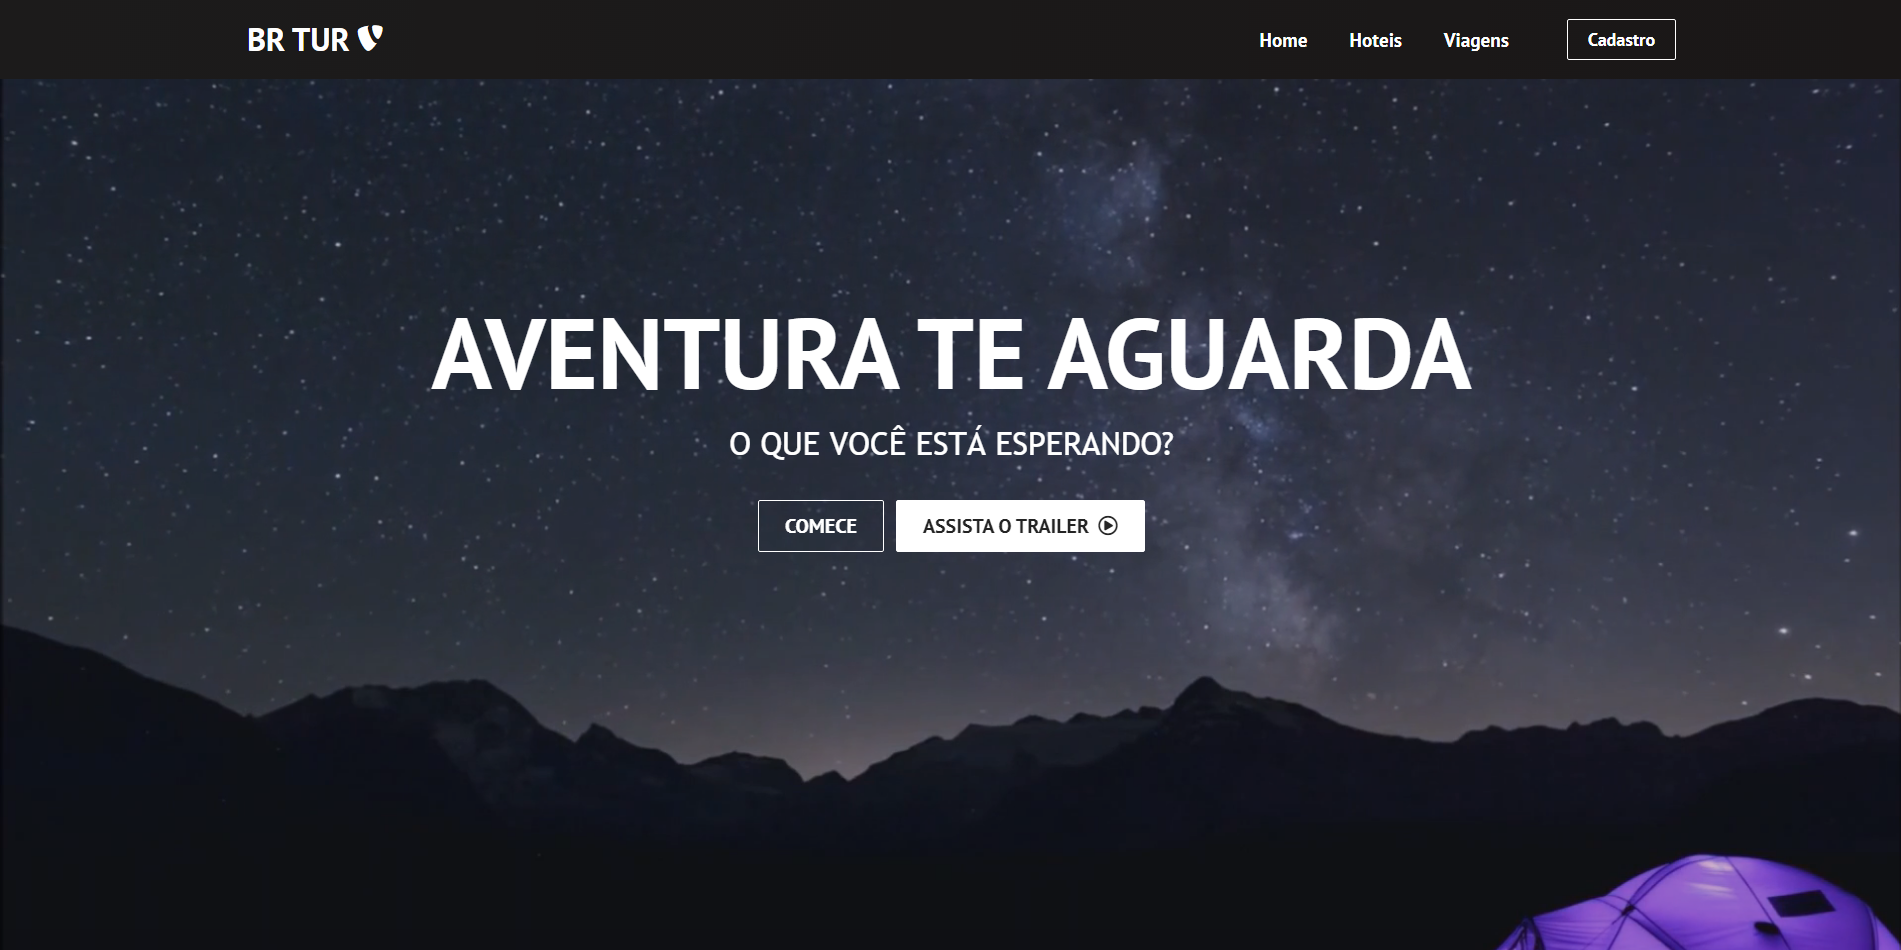
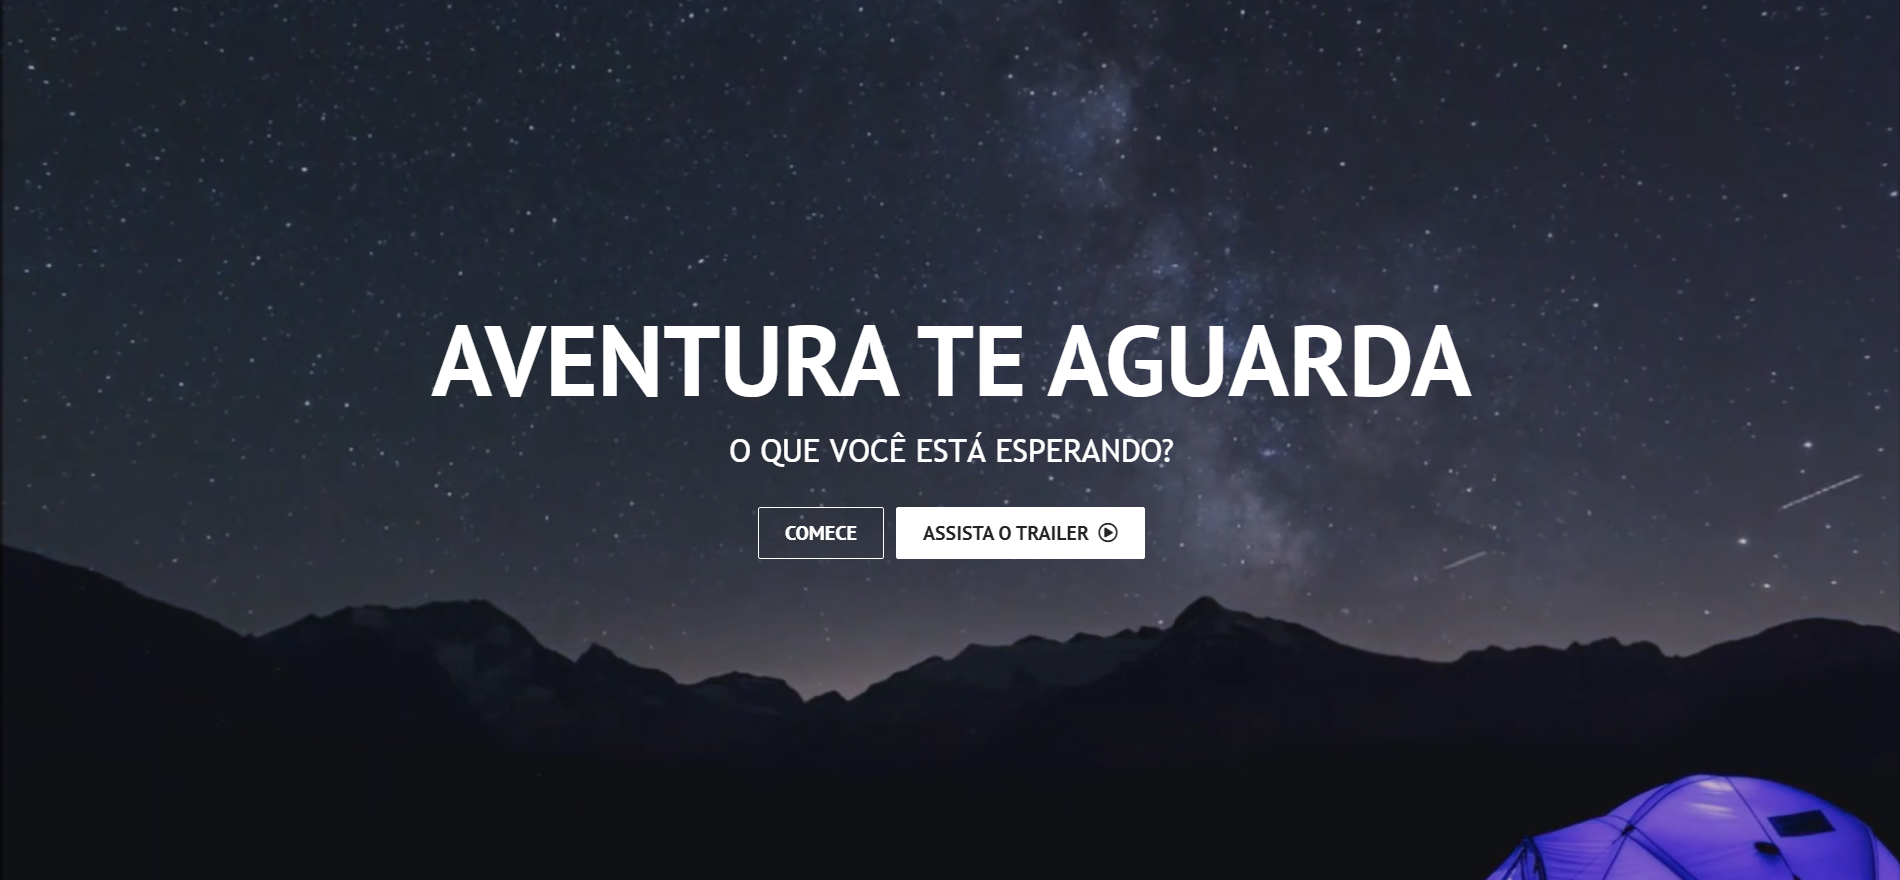
mudança imagens

diff --git a/src/resumeData.js b/src/resumeData.js
@@ -84,7 +84,7 @@ let resumeData = {
   portfolio: [
     {
       link: "https://br-turismo.vercel.app/",
-      imgurl: "https://i.imgur.com/gUibpbL.png",
+      imgurl: "https://i.imgur.com/HkJalYU.png",
       name: "BR Turismo",
       description:
         "Agência de turismos ficticia feita com intuito de estudar a criação de SPA",
@@ -92,7 +92,7 @@ let resumeData = {
     },
     {
       link: "https://previsao-tempo-three.vercel.app/",
-      imgurl: "https://i.imgur.com/gAyEi8i.png",
+      imgurl: "https://i.imgur.com/hz6PJSR.png",
       name: "Previsão do tempo",
       description:
         "aplicação simples de previsão do tempo usando APIS para busca de cidades e as informações meteorológicas.",
